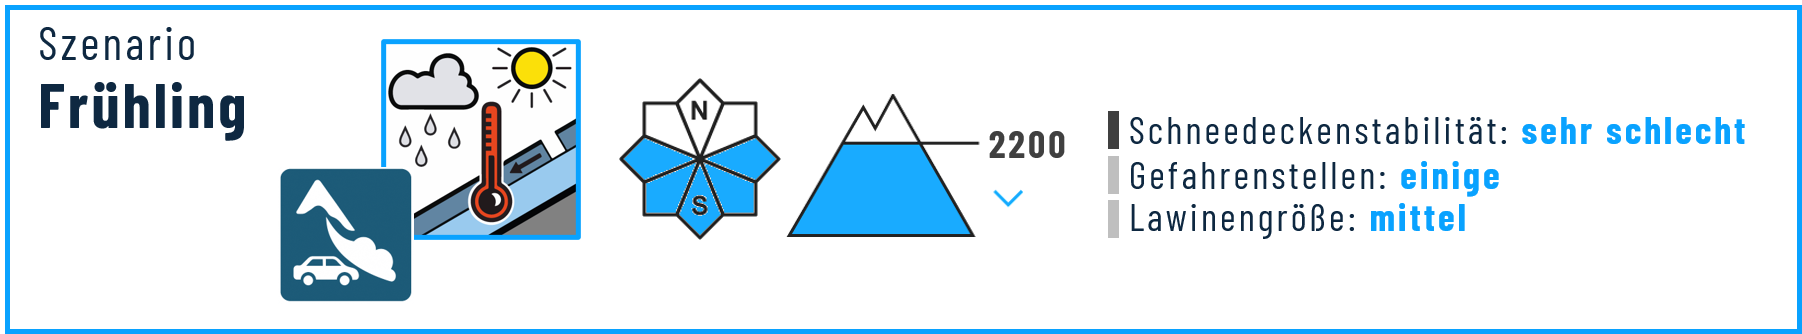
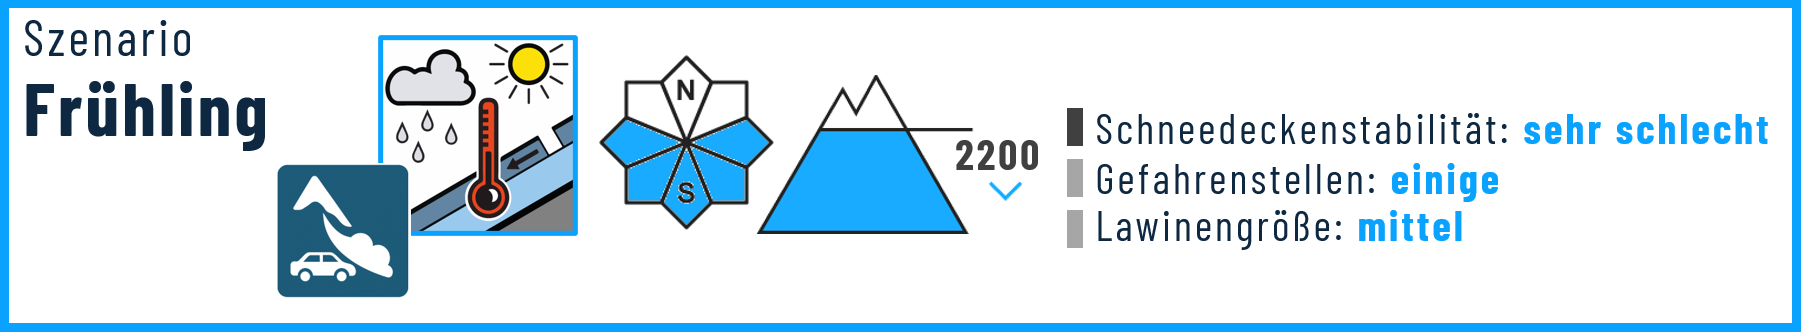
Update map UI, highlight style, and QR code

Changed region(s): [[0.0, 0.0, 1.0, 0.994], [0.1555, 0.753, 0.2488, 0.8434], [0.1555, 0.8735, 0.2488, 0.9036]]

diff --git a/docs/index.html b/docs/index.html
@@ -17,7 +17,7 @@
             <meta name="viewport" content="width=device-width,
                 initial-scale=1.0, maximum-scale=1.0, user-scalable=no" />
             <style>
-                #map_5275caa45f2aef6d5dc7f91c09928db2 {
+                #map_f6f61c64617c38b2da018c6edd1a49b8 {
                     position: relative;
                     width: 100.0%;
                     height: 100.0%;
@@ -108,9 +108,20 @@
   /* Size legend (continuous bar + 3 labels) — NO border */
   .legend-size{margin-top:6px}
   .size-grad{width:100%;height:12px;border-radius:3px}
-  .size-labels{display:flex;justify-content:space-between;font-size:11px;margin-top:2px}
-  .size-labels span:nth-child(2){text-align:center;flex:0 0 auto;transform:translateX(-2px)}
-  .size-labels span:first-child,.size-labels span:last-child{flex:0 0 auto}
+  /* Size legend labels alignment */
+  .size-labels{
+    display:flex;
+    gap:0;
+    font-size:11px;
+    margin-top:2px;
+  }
+  .size-labels span{
+    flex:1 1 33%;
+  }
+  .size-labels span:first-child{ text-align:left; }
+  .size-labels span:nth-child(2){ text-align:center; transform:none; } /* remove prior translate */
+  .size-labels span:last-child{ text-align:right; }
+
 
   /* Hide default Leaflet layer control (we recreated it inside Settings) */
   .leaflet-control-layers{display:none !important;}
@@ -118,6 +129,17 @@
   .leaflet-bottom.leaflet-left .leaflet-control{margin-left:10px;margin-bottom:20px}
   /* Hide Leaflet +/- (Python also sets zoom_control=False) */
   .leaflet-control-zoom{display:none !important;}
+
+  /* Popup: 80% opaque background, crisp text */
+  .ava-popup .leaflet-popup-content-wrapper{
+    background: rgba(255,255,255,0.8);
+    box-shadow: 0 2px 8px rgba(0,0,0,0.25);
+    border-radius: 8px;
+  }
+  .ava-popup .leaflet-popup-tip{
+    background: rgba(255,255,255,0.8);
+  }
+
 
   @media (max-width:480px){
     .ava-style{min-width:200px}
@@ -146,11 +168,11 @@
     REL_COLOR: "#ff00ff",
     RES_COLOR: "#1e00ff",
     SIZE_CLASSES: [
-      { color:"#09a2ff", label:"Size 1" },
-      { color:"#66ff31", label:""      },
-      { color:"#fff300", label:"Size 3"},
-      { color:"#ff0000", label:""      },
-      { color:"#5b0069", label:"Size 5"}
+      { color:"#09a2ff", label:"Size 1<br>1 LKW" },
+      { color:"#66ff31", label:""                  },
+      { color:"#fff300", label:"Size 3<br>100 LKW"},
+      { color:"#ff0000", label:""                  },
+      { color:"#5b0069", label:"Size 5<br>10.000 LKW"},
     ],
     HIGHLIGHT_BORDER: "red",
     HIGHLIGHT_WEIGHT: 3.5,
@@ -166,6 +188,11 @@
   const bannerWinter = "data/avaScenWinter.png";
   const bannerSpring = "data/avaScenSpring.png";
 
+  // Reuse page's ?v=... to bust image cache (falls back to now)
+  const BUST  = new URLSearchParams(location.search).get('v') || Date.now();
+  const CACHE = '?v=' + BUST;
+
+
   const START_ZOOM = 14, MIN_ZOOM = 12, MAX_ZOOM = 14;
   const FIT_TO_DATA = false;
   const TITLE_OFF = 4500;
@@ -174,9 +201,9 @@
 
   function waitForVars(maxTries){
     let tries=0, iv=setInterval(()=>{
-      const mapObj=window["map_5275caa45f2aef6d5dc7f91c09928db2"],
-            G_W=window["feature_group_32895fa3e971ae72c3e98abef6c4536c"], G_S=window["feature_group_bd5306004ece21860879203c1a8fc552"], G_M=window["feature_group_895b6952d060163d12043fe27dba47c4"],
-            BASE_LIGHT=window["tile_layer_c7175d37d554b8e2104f412fba1eb161"], BASE_BERGFEX=window["tile_layer_43c7ea93dd1b7ed830326e5bbdd62836"];
+      const mapObj=window["map_f6f61c64617c38b2da018c6edd1a49b8"],
+            G_W=window["feature_group_bbb3dd947a3decff2b3fe6e07d1699bf"], G_S=window["feature_group_6fa3b37622beb92f3a55772018132a49"], G_M=window["feature_group_7cf7583c527122ae30abbb67673710b4"],
+            BASE_LIGHT=window["tile_layer_c2bffde9d3bf0b0f9cdcdbd69087390f"], BASE_BERGFEX=window["tile_layer_59eaebe1fc53231287ae1ab914ba6445"];
       if(mapObj && G_W && G_S && G_M && BASE_LIGHT && BASE_BERGFEX && mapObj.addControl){
         clearInterval(iv); boot(mapObj,G_W,G_S,G_M,BASE_LIGHT,BASE_BERGFEX);
       } else if(++tries>maxTries){ clearInterval(iv); console.error("❌ Leaflet objects not ready."); }
@@ -199,9 +226,9 @@
 
     // banner helpers
     function updateBanner(){
-      const img=document.getElementById('ava-banner-img');
-      if(!img) return;
-      img.src = (scenario==='winter') ? bannerWinter : bannerSpring;
+      const img = document.getElementById('ava-banner-img');
+      if (!img) return;
+      img.src = ((scenario === 'winter') ? bannerWinter : bannerSpring) + CACHE;
     }
 
     // visibility + styling
@@ -230,11 +257,27 @@
       if(!layer||!layer.eachLayer) return;
       layer.eachLayer(function(ch){
         const p=ch&&ch.feature?ch.feature.properties:null; if(!p) return;
-        let rows=""; for(let k of ATTRS){ if(Object.prototype.hasOwnProperty.call(p,k)) rows+=`<tr><td><b>${k}</b></td><td>${p[k]}</td></tr>`; }
-        if(rows && ch.bindPopup) ch.bindPopup(`<table style="font-size:12px">${rows}</table>`,{maxWidth:260});
+        let rows="";
+        for(let k of ATTRS){
+          if(Object.prototype.hasOwnProperty.call(p,k)){
+            rows+=`<tr><td><b>${k}</b></td><td>${p[k]}</td></tr>`;
+          }
+        }
+        if(rows && ch.bindPopup){
+          ch.bindPopup(
+            `<table style="font-size:11px">${rows}</table>`,
+            { maxWidth:270, className:'ava-popup' }
+          );
+        }
         ch.on('click', ()=>{
-          if(highlighted&&highlighted.setStyle){ const pp=highlighted.feature?highlighted.feature.properties:null; highlighted.setStyle(styleFromProps(pp)); }
-          highlighted=ch; ch.setStyle(styleHighlight(p)); if(ch.bringToFront) ch.bringToFront(); if(ch.openPopup) ch.openPopup();
+          if(highlighted&&highlighted.setStyle){
+            const pp=highlighted.feature?highlighted.feature.properties:null;
+            highlighted.setStyle(styleFromProps(pp));
+          }
+          highlighted=ch;
+          ch.setStyle(styleHighlight(p));
+          if(ch.bringToFront) ch.bringToFront();
+          if(ch.openPopup) ch.openPopup();
         });
       });
     }
@@ -441,14 +484,14 @@
 </script>
 
     
-            <div class="folium-map" id="map_5275caa45f2aef6d5dc7f91c09928db2" ></div>
+            <div class="folium-map" id="map_f6f61c64617c38b2da018c6edd1a49b8" ></div>
         
 </body>
 <script>
     
     
-            var map_5275caa45f2aef6d5dc7f91c09928db2 = L.map(
-                "map_5275caa45f2aef6d5dc7f91c09928db2",
+            var map_f6f61c64617c38b2da018c6edd1a49b8 = L.map(
+                "map_f6f61c64617c38b2da018c6edd1a49b8",
                 {
                     center: [46.9914, 11.416055],
                     crs: L.CRS.EPSG3857,
@@ -465,7 +508,7 @@
 
         
     
-            var tile_layer_c7175d37d554b8e2104f412fba1eb161 = L.tileLayer(
+            var tile_layer_c2bffde9d3bf0b0f9cdcdbd69087390f = L.tileLayer(
                 "https://{s}.basemaps.cartocdn.com/light_all/{z}/{x}/{y}{r}.png",
                 {
   "minZoom": 0,
@@ -482,10 +525,10 @@
             );
         
     
-            tile_layer_c7175d37d554b8e2104f412fba1eb161.addTo(map_5275caa45f2aef6d5dc7f91c09928db2);
+            tile_layer_c2bffde9d3bf0b0f9cdcdbd69087390f.addTo(map_f6f61c64617c38b2da018c6edd1a49b8);
         
     
-            var tile_layer_43c7ea93dd1b7ed830326e5bbdd62836 = L.tileLayer(
+            var tile_layer_59eaebe1fc53231287ae1ab914ba6445 = L.tileLayer(
                 "https://tiles.bergfex.at/styles/bergfex-osm/{z}/{x}/{y}.jpg",
                 {
   "minZoom": 0,
@@ -502,52 +545,52 @@
             );
         
     
-            tile_layer_43c7ea93dd1b7ed830326e5bbdd62836.addTo(map_5275caa45f2aef6d5dc7f91c09928db2);
+            tile_layer_59eaebe1fc53231287ae1ab914ba6445.addTo(map_f6f61c64617c38b2da018c6edd1a49b8);
         
     
-            var feature_group_32895fa3e971ae72c3e98abef6c4536c = L.featureGroup(
+            var feature_group_bbb3dd947a3decff2b3fe6e07d1699bf = L.featureGroup(
                 {
 }
             );
         
     
-            feature_group_32895fa3e971ae72c3e98abef6c4536c.addTo(map_5275caa45f2aef6d5dc7f91c09928db2);
+            feature_group_bbb3dd947a3decff2b3fe6e07d1699bf.addTo(map_f6f61c64617c38b2da018c6edd1a49b8);
         
     
-            var feature_group_bd5306004ece21860879203c1a8fc552 = L.featureGroup(
+            var feature_group_6fa3b37622beb92f3a55772018132a49 = L.featureGroup(
                 {
 }
             );
         
     
-            var feature_group_895b6952d060163d12043fe27dba47c4 = L.featureGroup(
+            var feature_group_7cf7583c527122ae30abbb67673710b4 = L.featureGroup(
                 {
 }
             );
         
     
-            feature_group_895b6952d060163d12043fe27dba47c4.addTo(map_5275caa45f2aef6d5dc7f91c09928db2);
+            feature_group_7cf7583c527122ae30abbb67673710b4.addTo(map_f6f61c64617c38b2da018c6edd1a49b8);
         
     
-            var layer_control_d335a0083c2b79d03dc50e878535c032_layers = {
+            var layer_control_577dc15723b7ae3cd3f92fc3f5b10386_layers = {
                 base_layers : {
-                    "Light Gray" : tile_layer_c7175d37d554b8e2104f412fba1eb161,
-                    "Bergfex Topo" : tile_layer_43c7ea93dd1b7ed830326e5bbdd62836,
+                    "Light Gray" : tile_layer_c2bffde9d3bf0b0f9cdcdbd69087390f,
+                    "Bergfex Topo" : tile_layer_59eaebe1fc53231287ae1ab914ba6445,
                 },
                 overlays :  {
-                    "Winter" : feature_group_32895fa3e971ae72c3e98abef6c4536c,
-                    "Spring" : feature_group_bd5306004ece21860879203c1a8fc552,
+                    "Winter" : feature_group_bbb3dd947a3decff2b3fe6e07d1699bf,
+                    "Spring" : feature_group_6fa3b37622beb92f3a55772018132a49,
                 },
             };
-            let layer_control_d335a0083c2b79d03dc50e878535c032 = L.control.layers(
-                layer_control_d335a0083c2b79d03dc50e878535c032_layers.base_layers,
-                layer_control_d335a0083c2b79d03dc50e878535c032_layers.overlays,
+            let layer_control_577dc15723b7ae3cd3f92fc3f5b10386 = L.control.layers(
+                layer_control_577dc15723b7ae3cd3f92fc3f5b10386_layers.base_layers,
+                layer_control_577dc15723b7ae3cd3f92fc3f5b10386_layers.overlays,
                 {
   "position": "topright",
   "collapsed": false,
   "autoZIndex": true,
 }
-            ).addTo(map_5275caa45f2aef6d5dc7f91c09928db2);
+            ).addTo(map_f6f61c64617c38b2da018c6edd1a49b8);
 
         
 </script>
